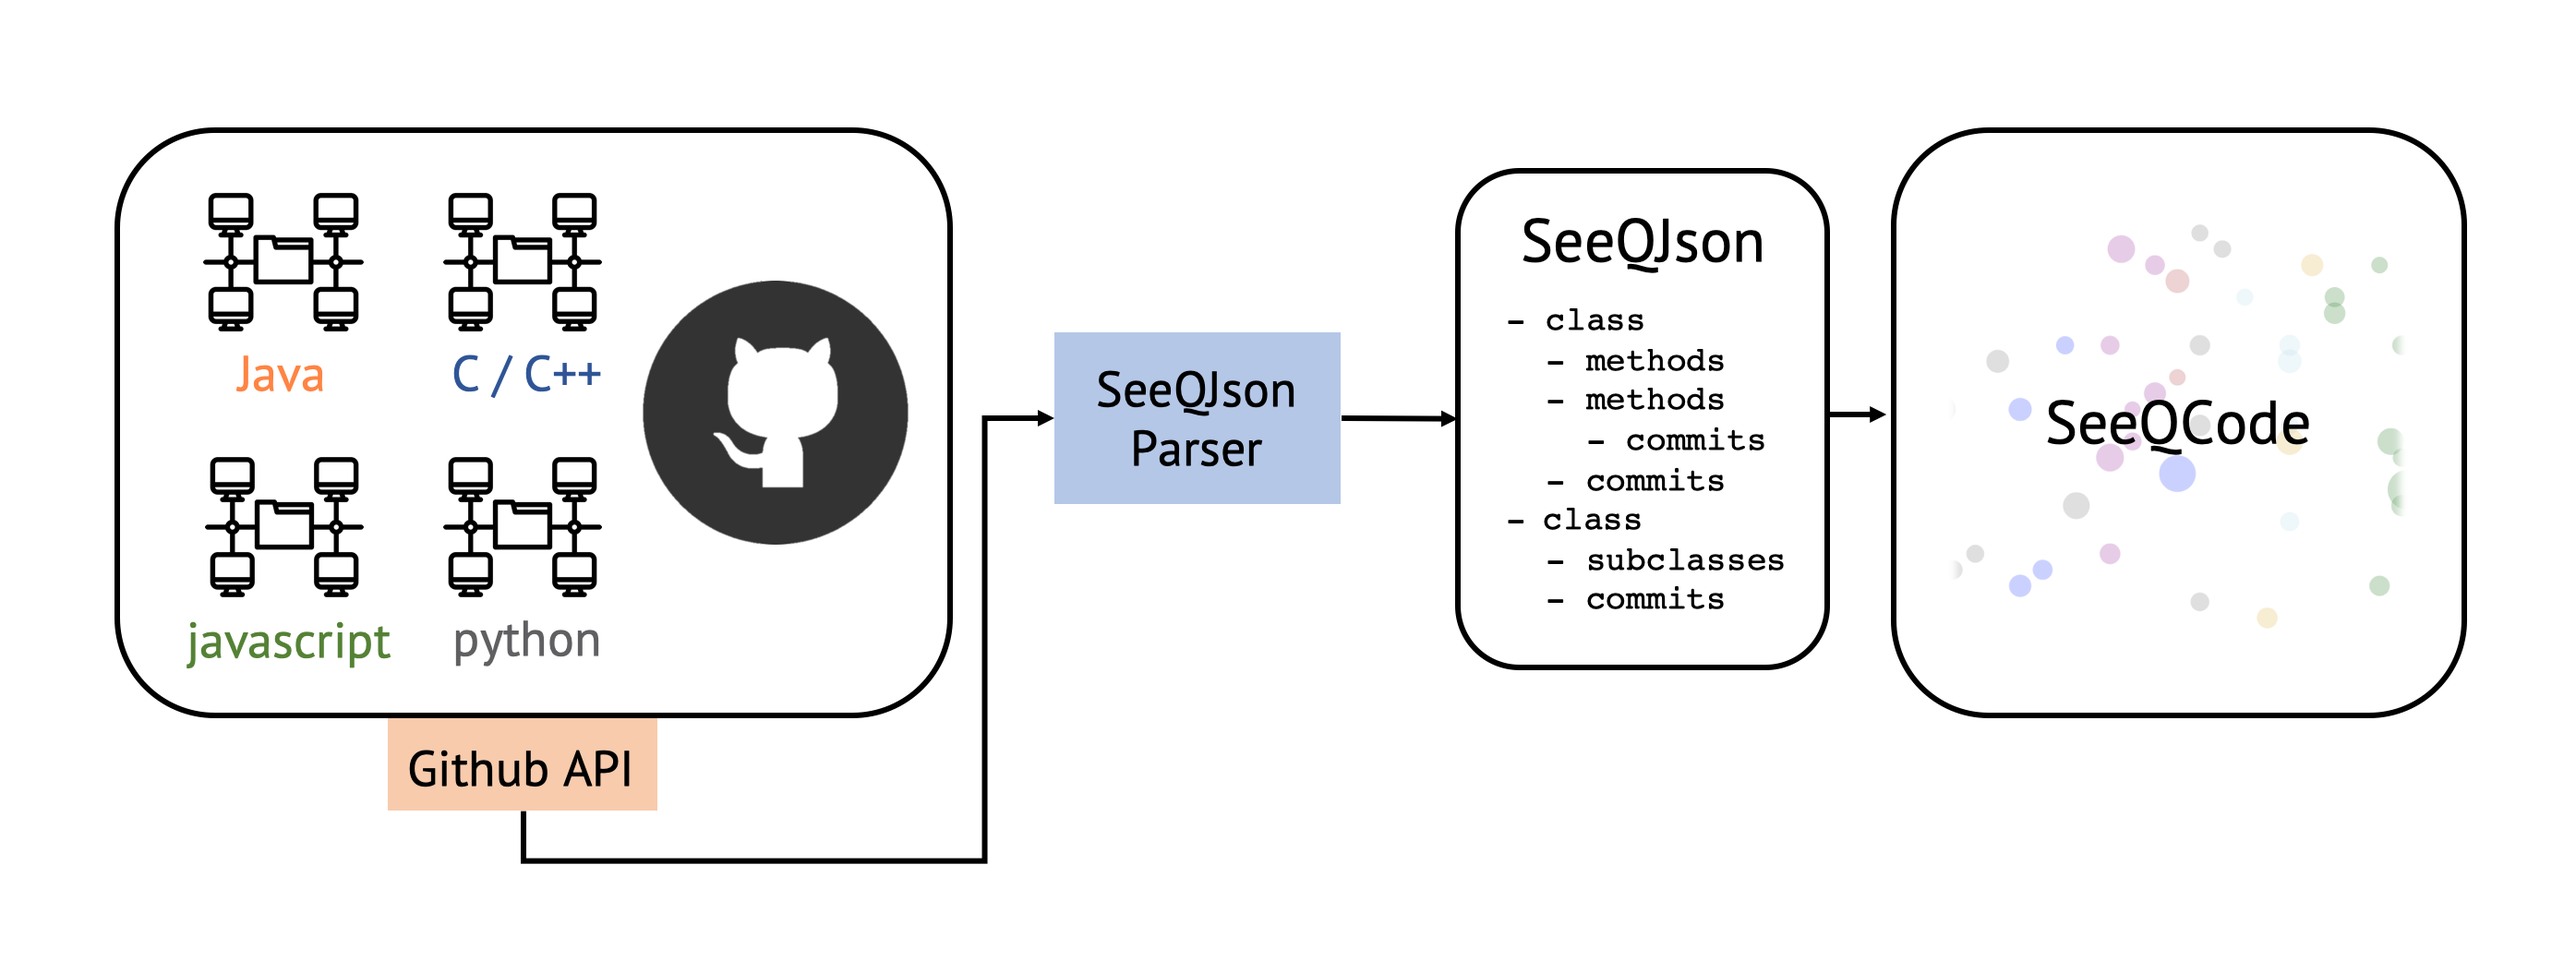
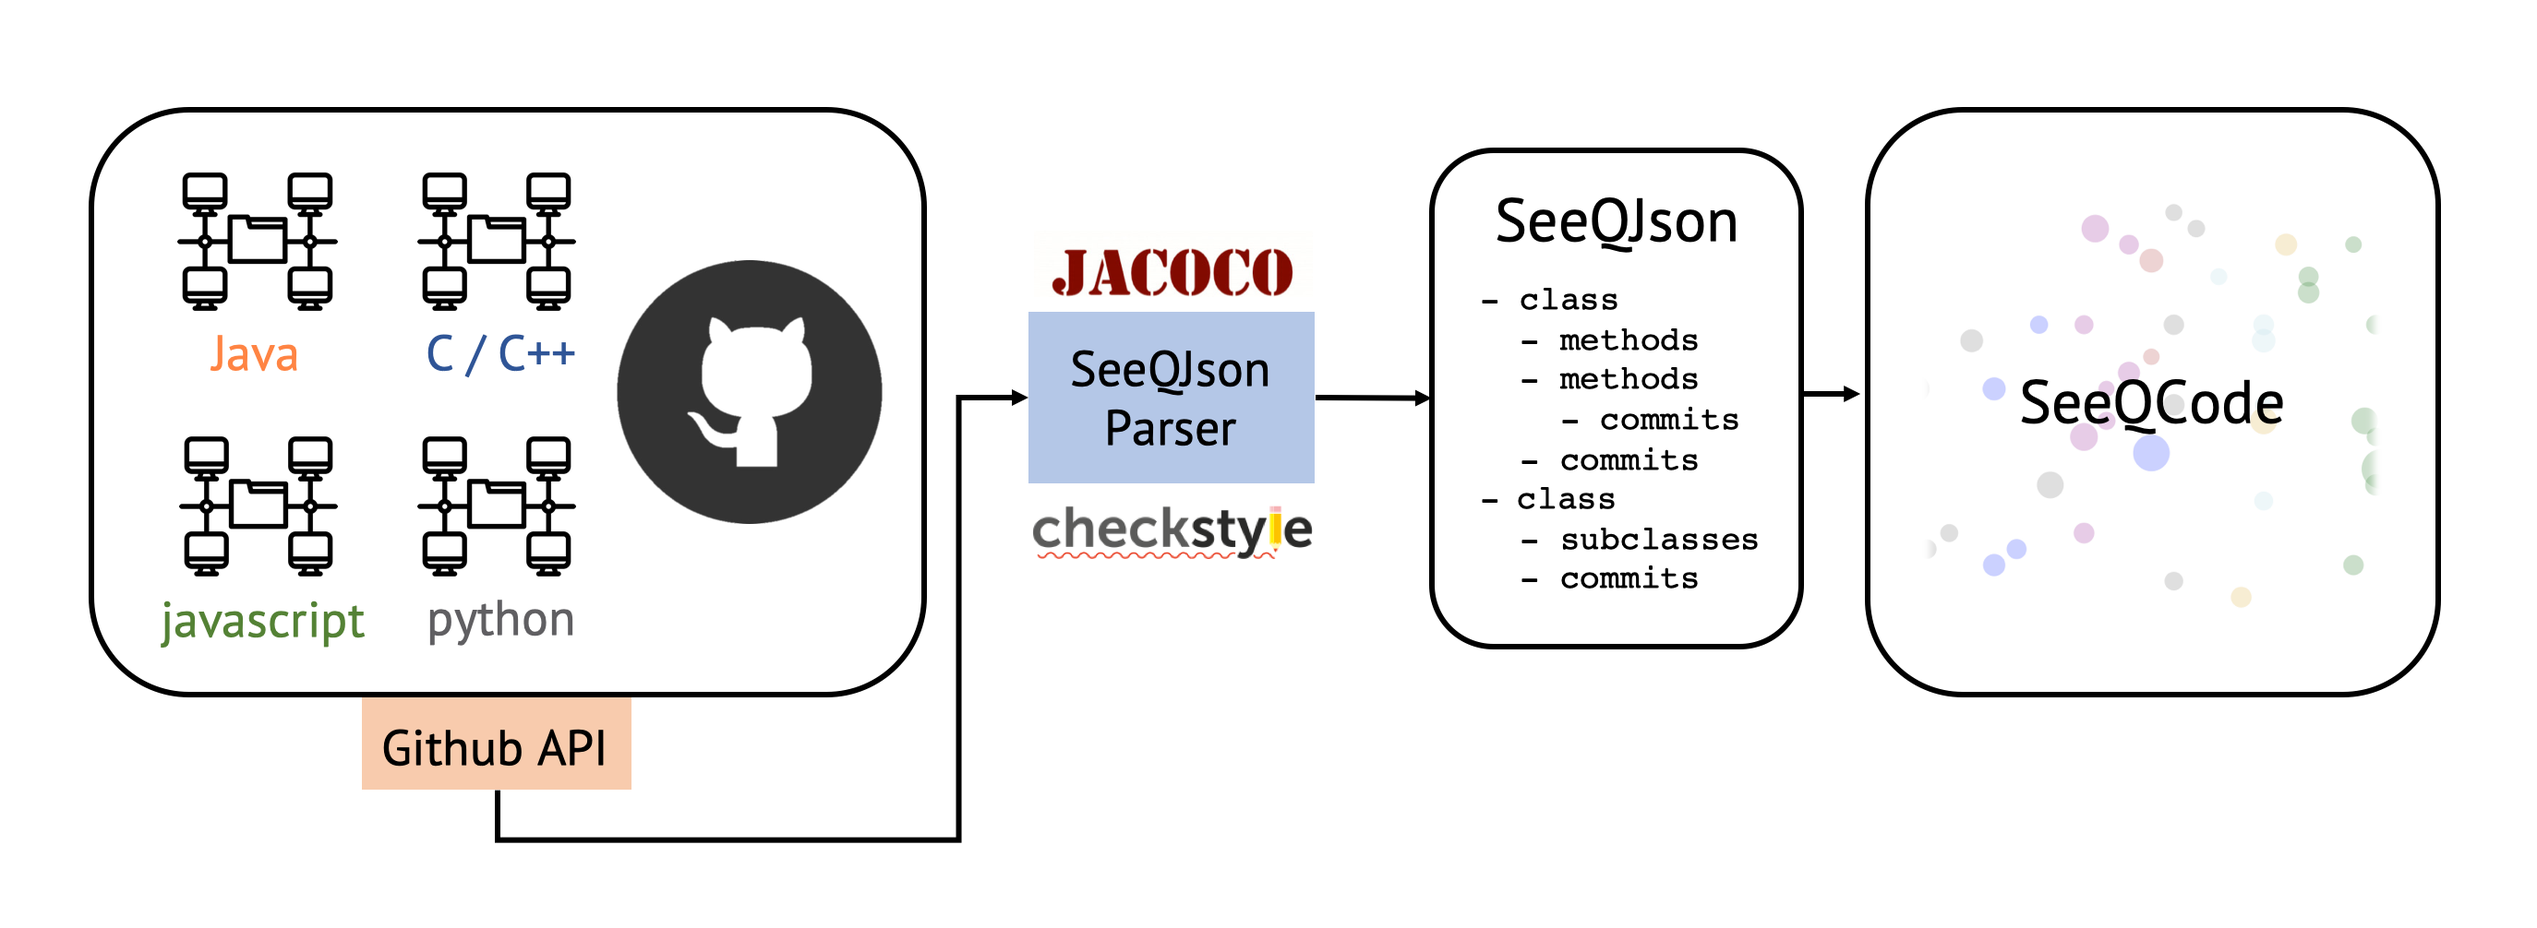
architecture documentation added

diff --git a/src/index.html b/src/index.html
@@ -45,15 +45,15 @@
             <!-- END of MAIN VIEW -->
 
             <!-- Additional INFOs -->
-            <div id="Manual">
+            <div id="Manual" style="width : 1000px;">
                 <h2>Manual</h2>
                 <div id="manualDiv"></div>
             </div>
-            <div id="About">
+            <div id="About" style="width : 1000px;">
                 <h2>About</h2>
                 <div id="aboutDiv"></div>
             </div>
-            <div id="Refer">
+            <div id="Refer" style="width : 1000px;">
                 <h2>References</h2>
                 <p style="margin-bottom: 0px;"><a href="https://github.com/jeonhyun97/SeeQCode"
                         target="_blank">Github</a></p>

diff --git a/doc/about.md b/doc/about.md
@@ -1,5 +1,5 @@
 
-##### What aims for
+##### Purpose
 
 SeeQCode
 
@@ -7,3 +7,13 @@ SeeQCode
 
 <img src="../doc/img/diagram.png" width="800">
 
+
+The overall program structure is like this:
+
+1) Collects the repository info using Github API, and parses it.
+   
+2) By using the data from *step 1*, constructs the .json file following SeeQJson format.
+   
+3) Generates the web view derived from the result of *step 2*.
+   
+SeeQCode only accepts Java for the time being.  We selected Java as it has a robust class hierarchy design, and therefore easy to process data.  Also, various tools to analyze code had developed.  For example, we decided to use jacoco to measure test coverage. 
